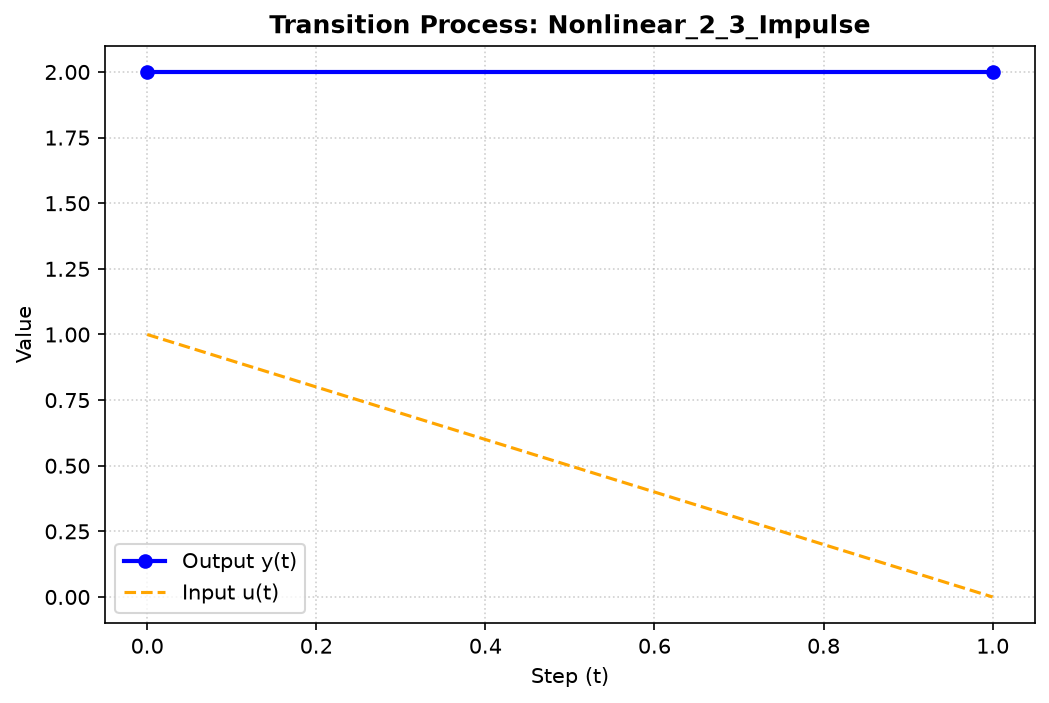
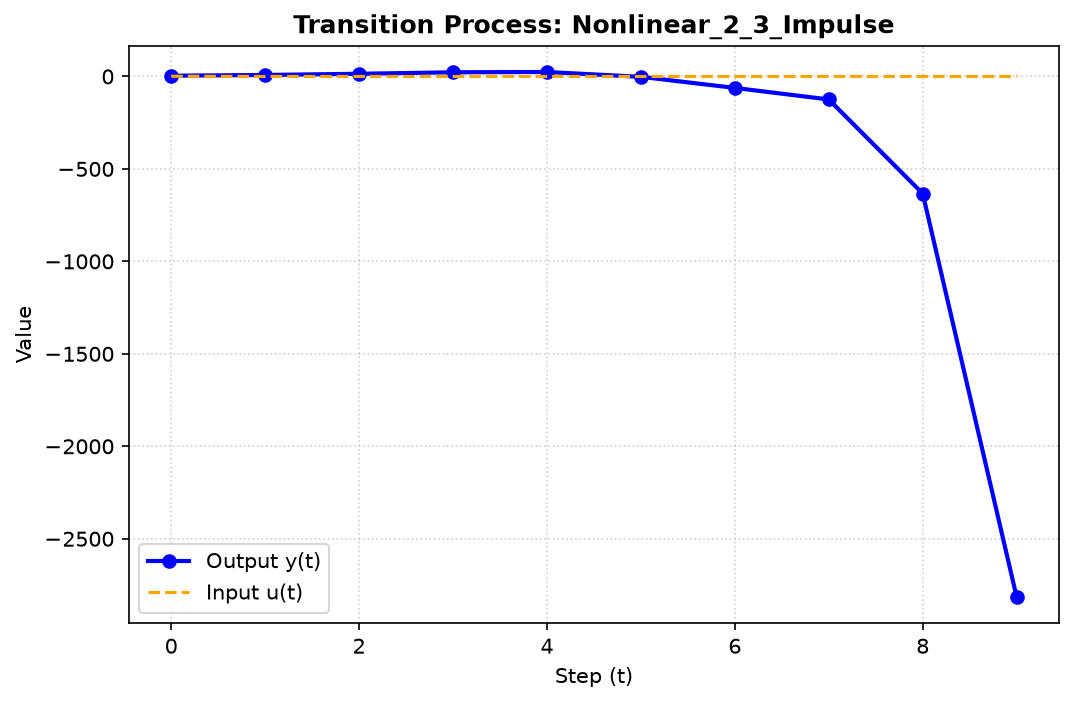
LB1 Koshelev

diff --git a/trunk/as06711/task_01/doc/readme.md b/trunk/as06711/task_01/doc/readme.md
@@ -36,6 +36,26 @@
 
 ---
 
+## Результаты моделирования
+
+Ниже представлены сводные графики переходных процессов для всех трех моделей (ступенчатое, импульсное и гармоническое воздействия):
+
+Сводный график всех моделей
+![simulation_results](simulation_results.png)
+
+*(Примечание: Если вы хотите вставить отдельные графики, они приведены ниже).*
+
+**Модель 1.9 (Ступенчатое воздействие):**
+![Linear 1.9 Step](Linear_1_9_Step.png)
+
+**Модель 2.3 (Импульсное воздействие):**
+![Nonlinear 2.3 Impulse](Nonlinear_2_3_Impulse.png)
+
+**Модель 3.7 (Гармоническое воздействие):**
+![DiffEquation 3.7 Harmonic](DiffEquation_3_7_Harmonic.png)
+
+---
+
 ### Структура классов (UML)
 Для реализации объектно-ориентированного подхода была спроектирована следующая архитектура классов:
 
